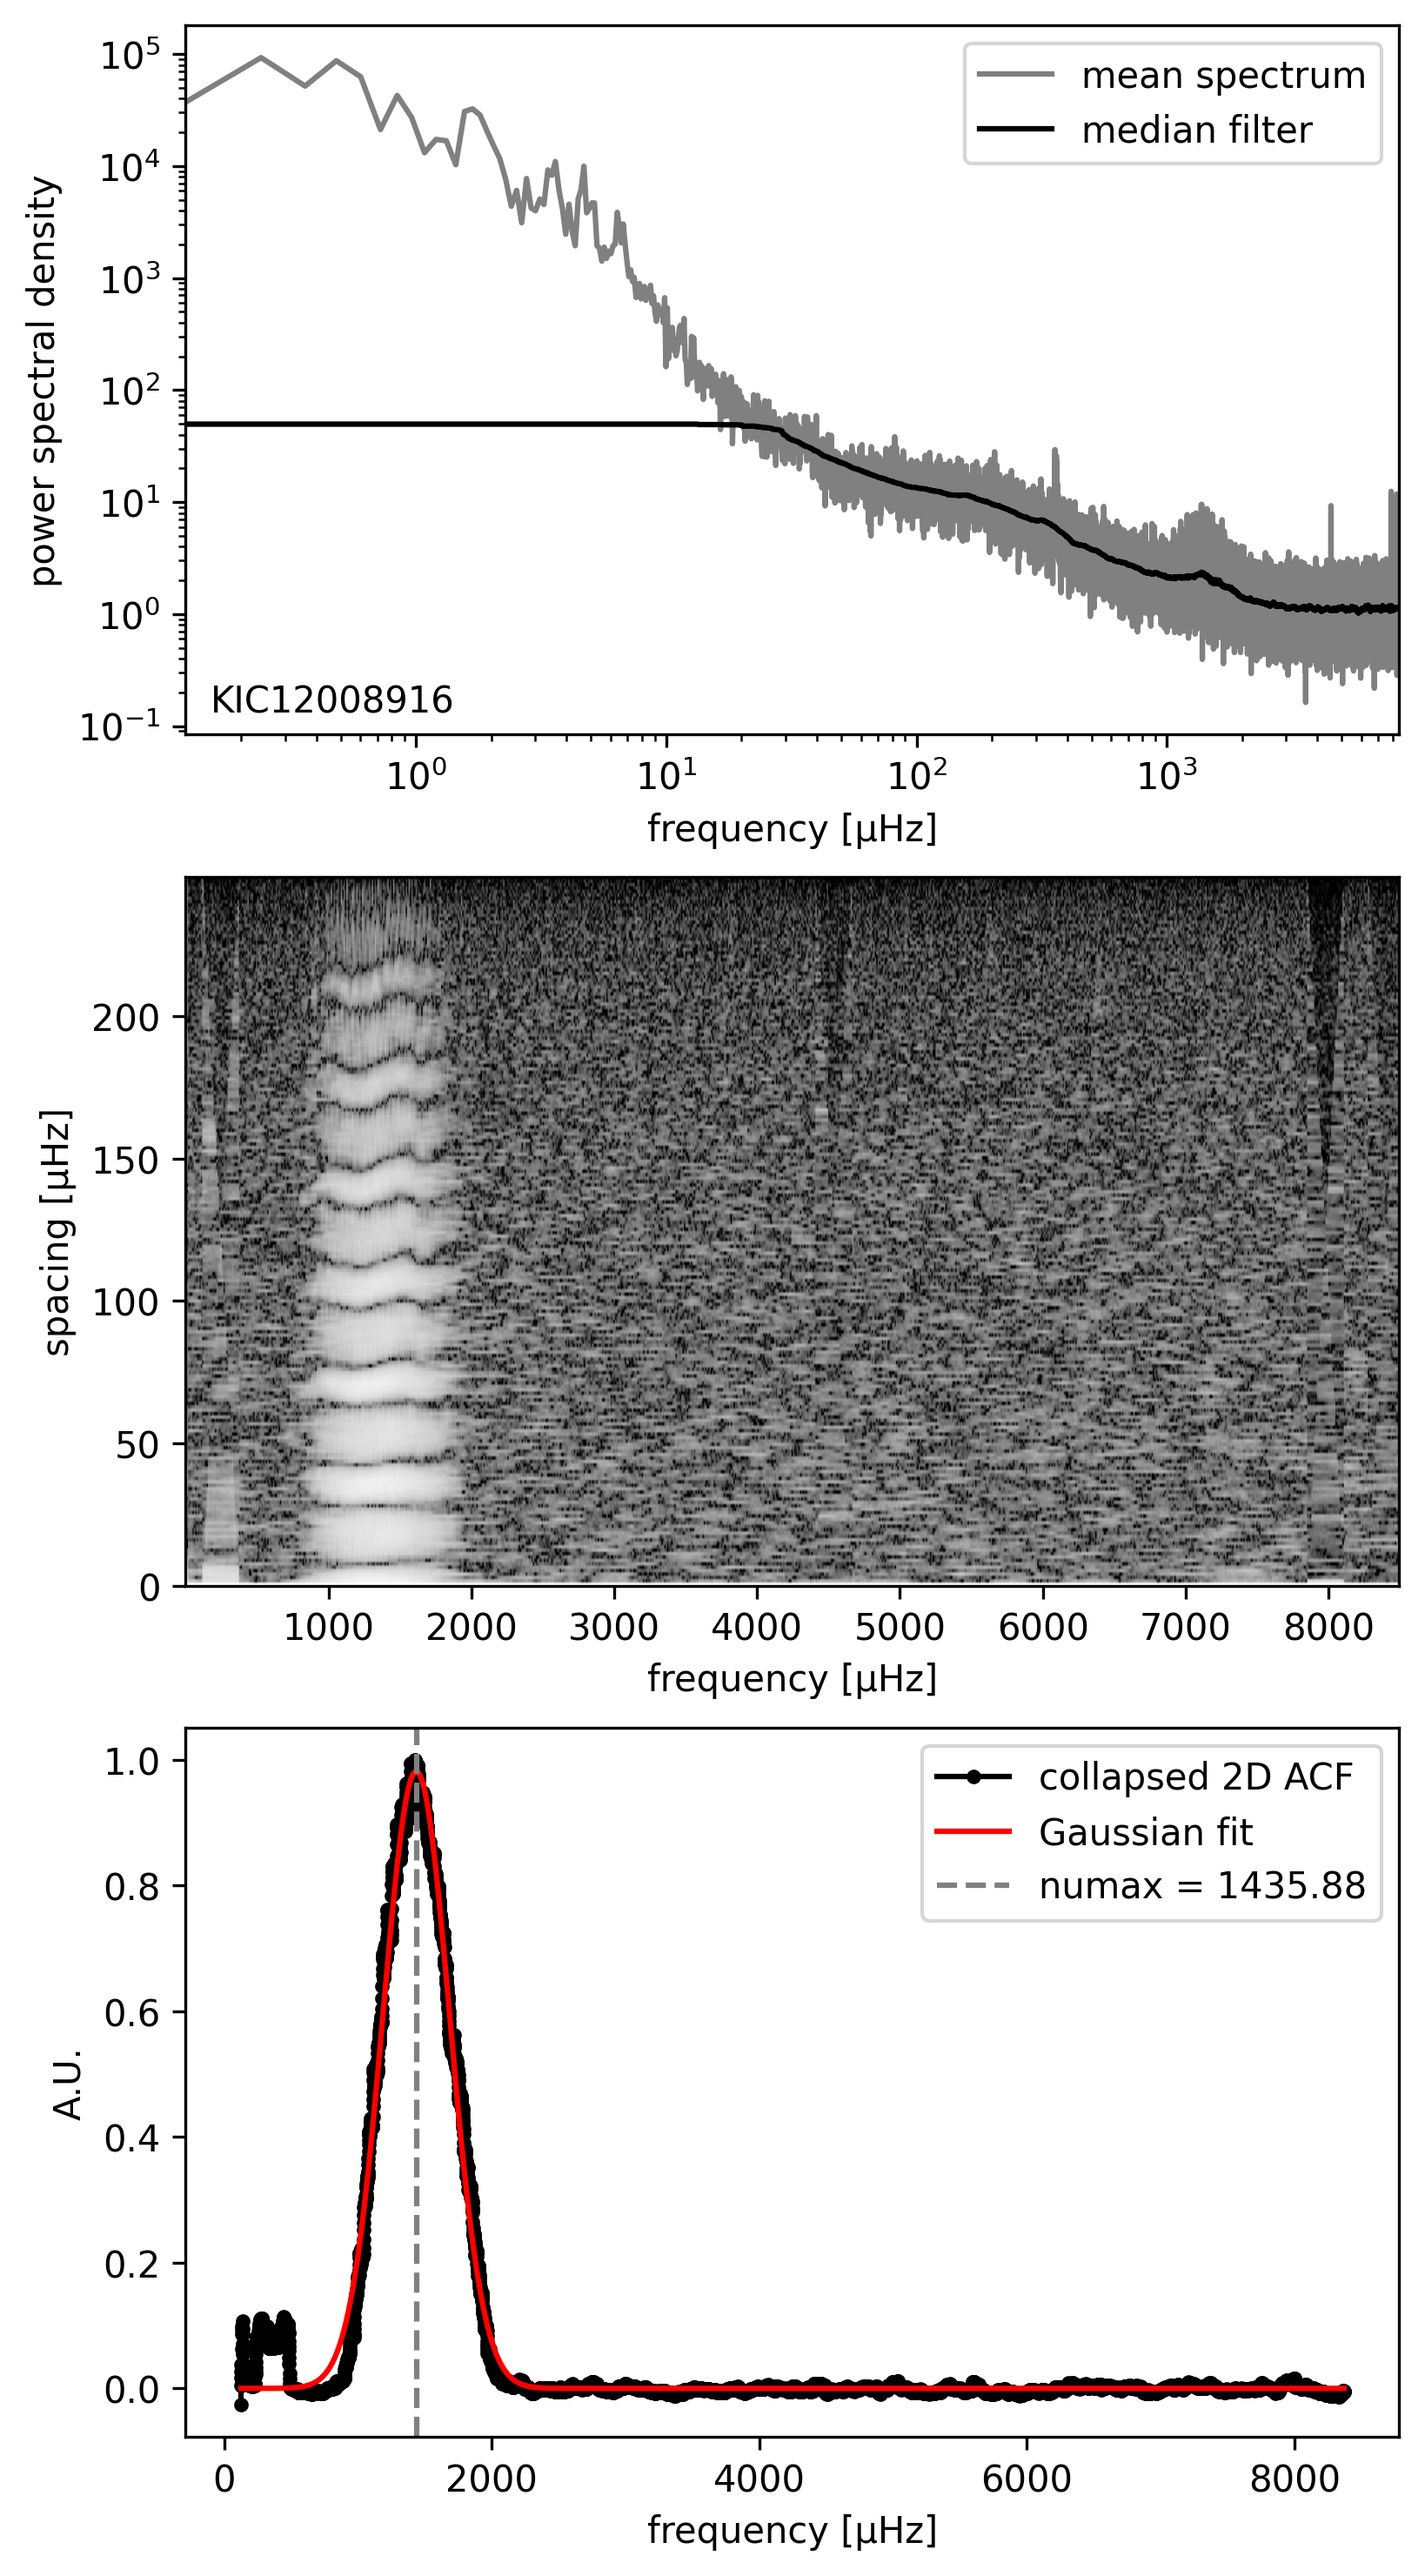
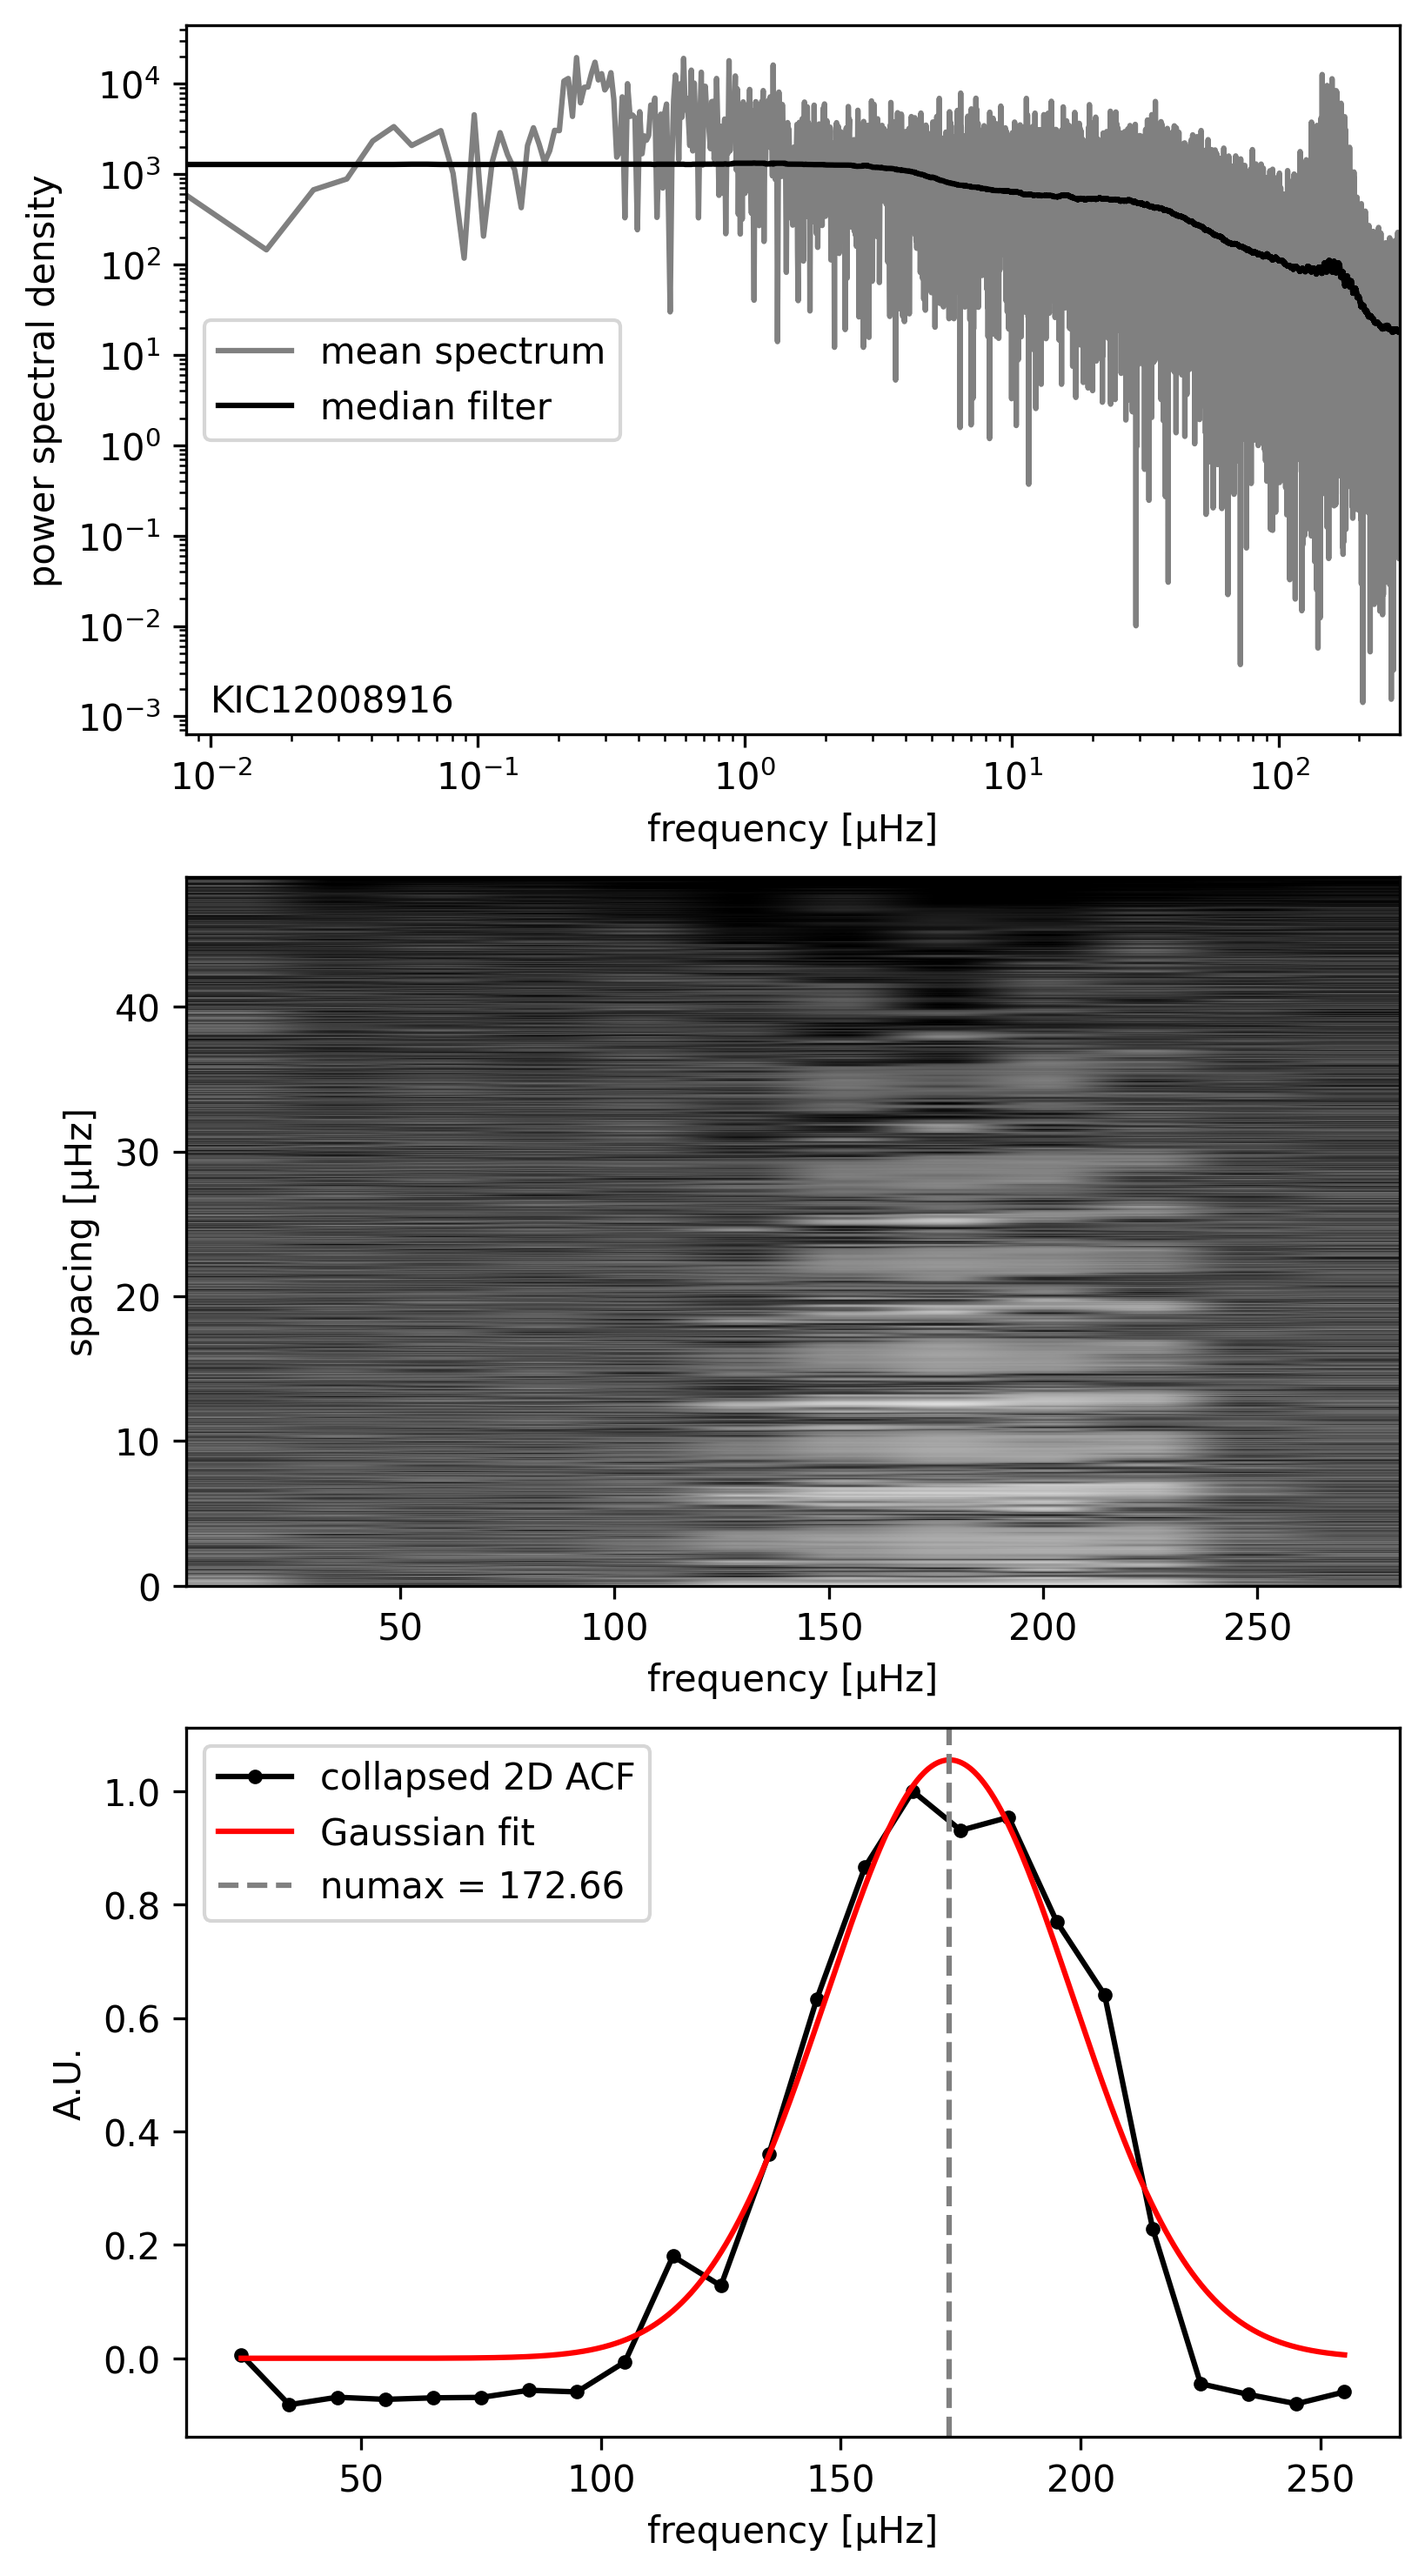
added stuff

diff --git a/plotting/plotting.py b/plotting/plotting.py
@@ -2,8 +2,9 @@ import numpy as np
 import matplotlib.pyplot as plt
 from uncertainties import ufloat, UFloat
 from uncertainties import unumpy as unp
+import os
 
-def plot_spectrum_with_all_numax_estimates(frequency, power, numax_dict):
+def plot_spectrum_with_all_numax_estimates(frequency, power, numax_dict, id):
     fig, ax = plt.subplots()
     ax.loglog(frequency, power, 
             c='gray')
@@ -35,4 +36,8 @@ def plot_spectrum_with_all_numax_estimates(frequency, power, numax_dict):
                        color=c)
     ax.set_xlabel('Frequency')
     ax.set_ylabel('Power')
+    ax.text(0.02, 0.02, f'{id}', ha='left', va='bottom', transform=ax.transAxes)
     ax.legend(loc='center left', bbox_to_anchor=(1, 0.5))
+    savepath = os.path.join('numax_proxies', 'results', id, 'figures')
+    os.makedirs(savepath, exist_ok=True)
+    fig.savefig(f'{savepath}/full_spectrum_with_all_estimates.png', dpi=300, bbox_inches='tight')

diff --git a/NumaxProxies.py b/NumaxProxies.py
@@ -73,7 +73,8 @@ class NumaxProxies:
         plot_spectrum_with_all_numax_estimates(
             self._pg.frequency,
             self._pg.power,
-            self._numax_estimates
+            self._numax_estimates,
+            self._id
         )
         return
 

diff --git a/README.md b/README.md
@@ -79,6 +79,9 @@ proxy.compute_numax_from_scaling_relations()
 
 ---
 ## 📈 Example Results
+Example of full spectrum with all numax estimates
+![Full spectrum](results/KIC12008916/figures/full_spectrum_with_all_estimates.png)
 Example of ACF method
 ![Example of ACF method](results/KIC12008916/figures/ACF.png)
+Example of Coefficients of Variation method
 ![Example of CoV method](results/KIC12008916/figures/CoVs.png)
